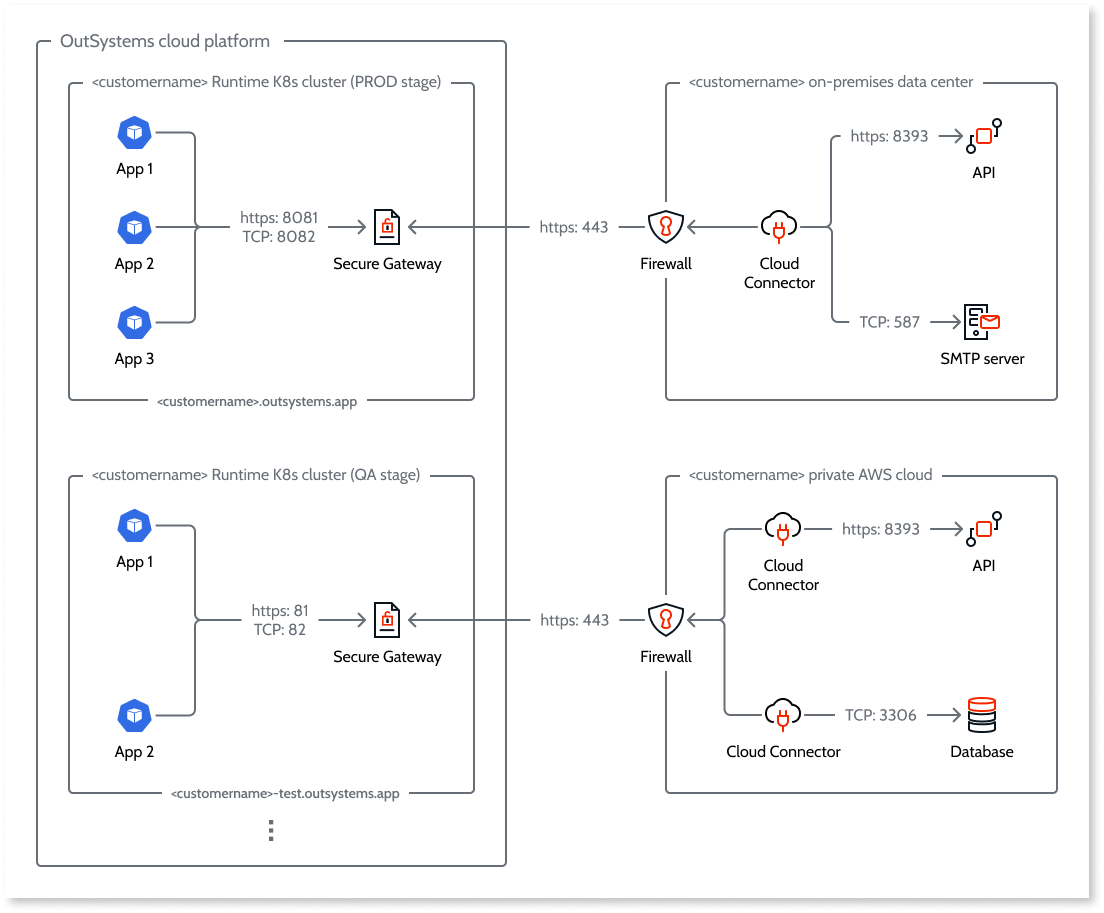
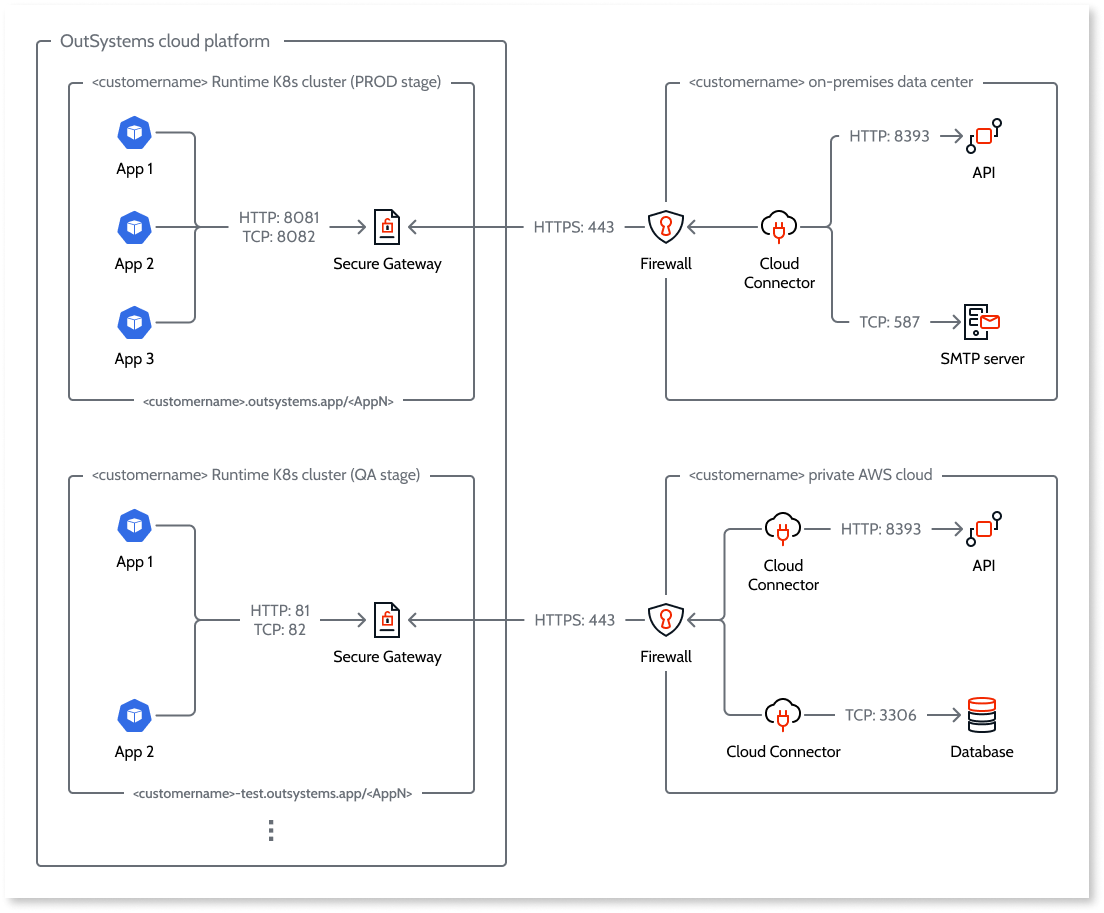
Thanks @pedro-santos-rodrigues for feedback,

diff --git a/main.go b/main.go
@@ -72,8 +72,8 @@ var clientHelp = `
 
     example remotes
 
-	  R:8081:192.168.0.3:8393
-      R:8082:192.168.0.4:587
+      R:8081:192.168.0.3:8393
+	  R:8082:192.168.0.4:587
 
     See https://github.com/OutSystems/cloud-connector for  examples in context.
     

diff --git a/README.md b/README.md
@@ -1,18 +1,18 @@
 # OutSystems Cloud Connector
 
-The OutSystems Cloud Connector (`outsystemscc`) lets you connect the applications running in your OutSystems [Project Neo](https://www.outsystems.com/platform/project-neo/) organization to private data and private services that are not accessible by the internet. `outsystemscc` is an open-source project written in Go.
+The OutSystems Cloud Connector (`outsystemscc`) lets you connect the applications running in your OutSystems [Project Neo](https://www.outsystems.com/platform/project-neo/) organization to private data and private services  ("endpoints") that are not accessible by the internet. `outsystemscc` is an open-source project written in Go.
 
-You run `outsystemscc` on a system in your private network—an on-premises network, a private cloud, or the public cloud—to establish a secure tunnel between your private data and private services (“endpoints”) and the Secure Gateway. Your applications can then access the endpoints through the Secure Gateway, the server component you activate for each stage of your Project Neo organization [using the Portal](https://outsystemsrd.atlassian.net/browse/TK-6271).
+You run `outsystemscc` on a system in your private network—an on-premises network, a private cloud, or the public cloud—to establish a secure tunnel between your endpoints and the Secure Gateway. Your applications can then access the endpoints through the Secure Gateway, the server component you activate for each stage of your Project Neo organization [using the Portal](https://outsystemsrd.atlassian.net/browse/TK-6271).
 
-`outsystemscc` creates a fast TCP/UDP tunnel, with transport over HTTP via WebSockets, secured via SSH. The connection is established to either the built-in domain for the stage (for example `<customername>.outsystems.app`) or a custom domain configured for the stage (for example `www.example.com`). In both cases, the connection is over TLS and always encrypted with a valid X.509 certificate.
+`outsystemscc` creates a fast TCP/UDP tunnel, with transport over HTTP via WebSockets, secured via SSH. The connection is established to either the built-in domain for the stage (for example `<customername>.outsystems.app`) or a custom domain configured for the stage (for example `example.com`). In both cases, the connection is over TLS and always encrypted with a valid X.509 certificate.
 
-You can tunnel any endpoint that supports connection over TCP. Common use cases include accessing data through a private REST API service and making requests to internal services (SMTP, SMB, NFS,..)
+You can use `outsystemscc` to create a tunnel to any endpoints that support connection over TCP or UDP. Common use cases include accessing data through a private REST API service and making requests to internal services (SMTP, SMB, NFS,..)
 
 The following diagram shows an example Project Neo customer setup for a Secure Gateway active on two stages.
 
 ![Secure gateways diagram](images/secure-gateways-diag.png "Secure gateways diagram")
 
-You see how to configure the example connection to the Production stage in the **Usage** section below.
+You see how to create a tunnel to the endpoints as in the example customer on-premises data center in the **Usage** section below.
 
 ## Install
 
@@ -20,11 +20,11 @@ You see how to configure the example connection to the Production stage in the *
 
 Download the latest release from the [releases page](https://github.com/OutSystems/cloud-connector/releases/latest). There are precompiled binaries available for Linux on i386 (32-bit), amd64 (64-bit), and arm64 (64-bit). You can run the binary on a Windows version that supports [WSL2](https://docs.microsoft.com/en-us/windows/wsl/).
 
-To install, unzip/untar the package and then copy the executable to the desired location. For example:
+To install, unzip/untar the package and then copy the binary to the desired location. For example:
 
-    tar -xzf outsystemscc_1.0.0_linux_amd64.tar.gz
-    mv outsystemscc /usr/local/bin
-    ./outsystemscc --help
+    tar -zxvf outsystemscc_1.0.0_linux_amd64.tar.gz
+    mv outsystemscc $HOME/.local/bin
+    outsystemscc --help
 
 You may want to configure the binary to run as a service so it can be configured to start on system boot, for example. See the documentation of your Linux distribution for detail on how to do this.
 
@@ -36,15 +36,22 @@ Run the Docker image directly from the OutSystems Docker Hub page:
 
     docker run --rm -it outsystems/outsystemscc --help
 
+If your system supports it, there are several advantages of running `outsystemscc` as a Docker image as opposed to a binary.
+
+* You always run the latest release. You don't need to reinstall each new release.
+* It can be run on Windows or any system that supports Docker.
+* Without additional configuration it will start with the Docker daemon on system boot.
+* For advanced use cases, it can be orchestrated with Kubernetes.
+
 ### Firewall setup
 
 `outsystemscc` requires only outbound access to the internet in the private network it is running.
 
-Outbound internet connectivity (via a NAT Gateway, for example) can be restricted by a firewall. For a Layer 7 firewall, you should allowlist outbound connections to the built-in domain (for example `<customername>.outsystems.app`) and any custom domains configured for the stage (for example `www.example.com`). For a Layer 4 firewall, you must open firewall rules to all [CloudFront IP ranges](https://docs.aws.amazon.com/AmazonCloudFront/latest/DeveloperGuide/LocationsOfEdgeServers.html) for port 443.
+Outbound internet connectivity (via a NAT Gateway, for example) can be restricted by a firewall. For a Layer 7 firewall, you should allow outbound connections to the built-in domain (for example `<customername>.outsystems.app`) and any custom domains configured for the stage (for example `example.com`). For a Layer 4 firewall, you must open firewall rules to all [CloudFront IP ranges](https://docs.aws.amazon.com/AmazonCloudFront/latest/DeveloperGuide/LocationsOfEdgeServers.html) for port 443.
 
 If the network requires outbound traffic to be routed through a proxy, you specify that using the `--proxy` option.
 
-There may be a dedicated person or team at your organization responsible for administering the network firewalls. If so, you may want to contact them for help with the process.
+There may be a dedicated person or team at your organization responsible for administering network firewalls. If so, you may want to contact them for help with the process.
 
 ## Usage
 
@@ -61,20 +68,20 @@ You use the **Token** and **Address** to form the `outsystemscc` command to be r
       https://acme.outsystems.app/sg_6c23a5b4-b718-4634-a503-f22aed17d4e7 \
       R:8081:192.168.0.3:8393
 
-In this example, you tunnel the endpoint `192.168.0.3:8393`, a REST API service running on IP address `192.168.0.3`. The endpoint is available to consume by applications running in the connected stage at `secure-gateway:8081`.
+In this example, you create a tunnel to the endpoint `192.168.0.3:8393`, a REST API service (HTTP/TCP) running on IP address `192.168.0.3`. The endpoint is available to consume by applications running in the connected stage at `secure-gateway:8081`.
 
-You can tunnel multiple endpoints to the same Secure Gateway. To do this, you can run multiple instances of `outsystemscc` or pass in multiple remotes (`R:<local-port>:<remote-host>:<remote-port>`) to the same instance. In the latter case, for example:
+You can create a tunnel to connect multiple endpoints to the same Secure Gateway. To do this, you can run multiple instances of `outsystemscc` or pass in multiple remotes (`R:<local-port>:<remote-host>:<remote-port>`) to the same instance. In the latter case, for example:
 
     outsystemscc \
       --header "token: N2YwMDIxZTEtNGUzNS1jNzgzLTRkYjAtYjE2YzRkZGVmNjcy" \
       https://acme.outsystems.app/sg_6c23a5b4-b718-4634-a503-f22aed17d4e7 \
       R:8081:192.168.0.3:8393 R:8082:192.168.0.4:587
 
-In this example, you tunnel two endpoints. One, as before, `192.168.0.3:8393`, a REST API service running on IP address `192.168.0.3`. The endpoint is available for use by applications running in the connected stage at `secure-gateway:8081`. Second, `192.168.0.4:587`, an SMTP server running on `192.168.0.4`, another IP in the internal address range. The endpoint is available for use by applications running in the connected stage at `secure-gateway:8082`.
+In this example, you create a tunnel to connect two endpoints. One, as before, `192.168.0.3:8393`, a REST API service (HTTP/TCP) running on IP address `192.168.0.3`. The endpoint is available for use by applications running in the connected stage at `secure-gateway:8081`. Second, `192.168.0.4:587`, an SMTP server (SMTP/TCP) running on `192.168.0.4`, another IP in the internal address range. The endpoint is available for use by applications running in the connected stage at `secure-gateway:8082`.
 
-You can tunnel any endpoint that is in the internal address range and so network accessible from the system you run `outsystemscc` on.
+You can create a tunnel to any endpoint that is in the internal address range and so network accessible over TCP or UDP from the system you run `outsystemscc` on. If the connection is over UDP, add `/udp` to the end of the remote port.
 
-You can learn more about using private endpoints in your applications on the [Project Neo documentation site](https://outsystemsrd.atlassian.net/browse/TK-6271).
+You can learn more about using connected endpoints in your applications on the [Project Neo documentation site](https://outsystemsrd.atlassian.net/browse/TK-6271).
 
 ### Logging
 
